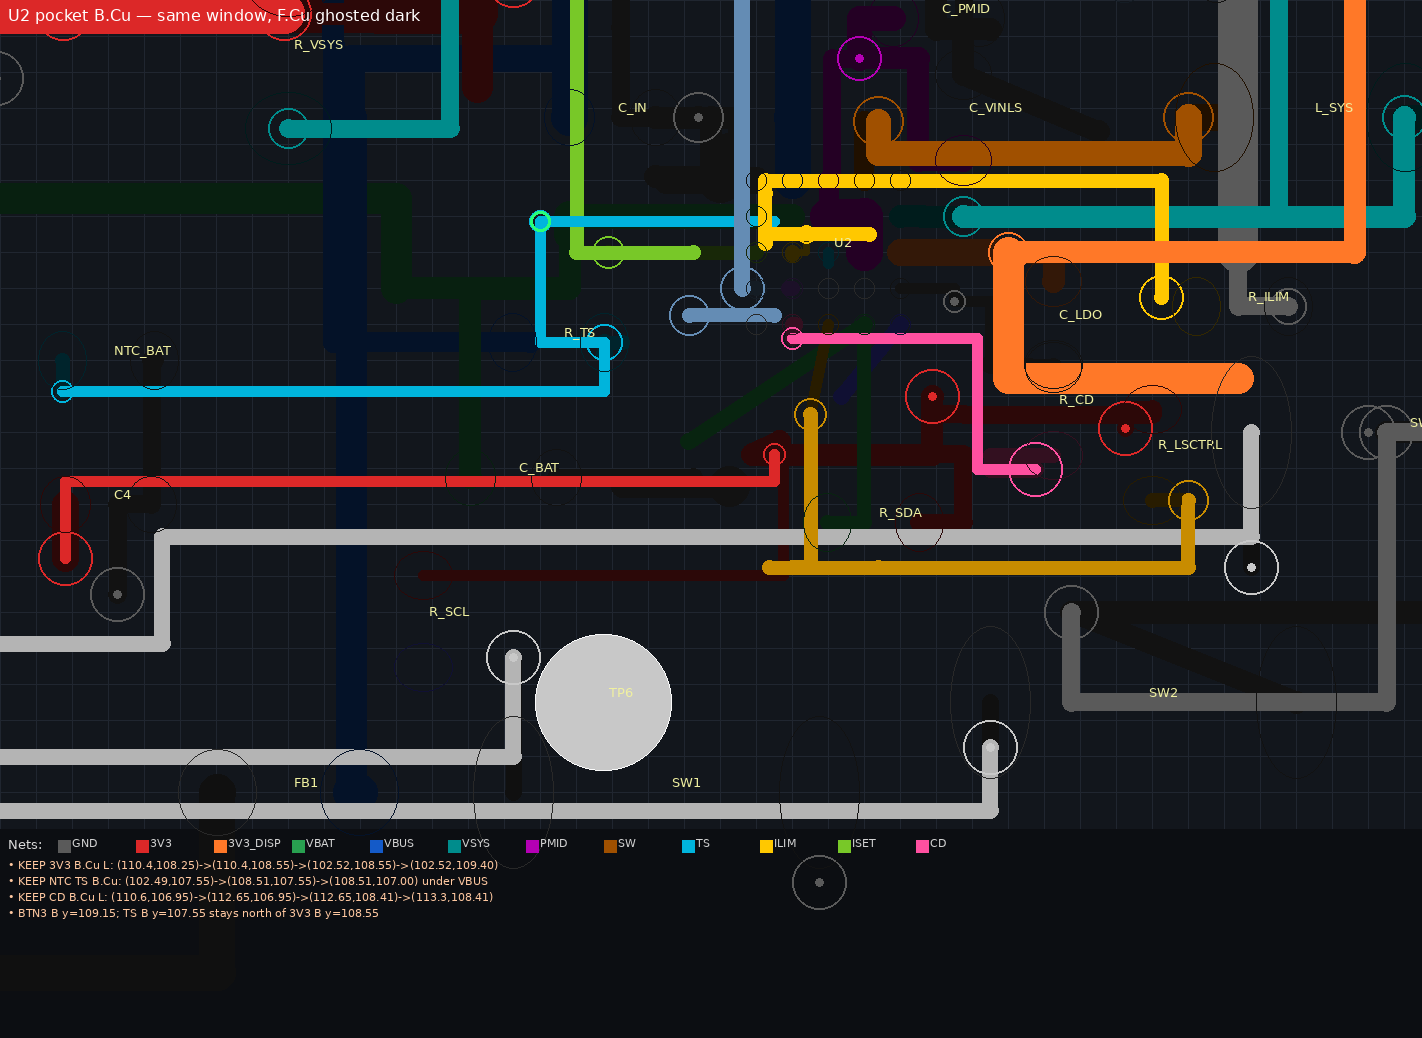
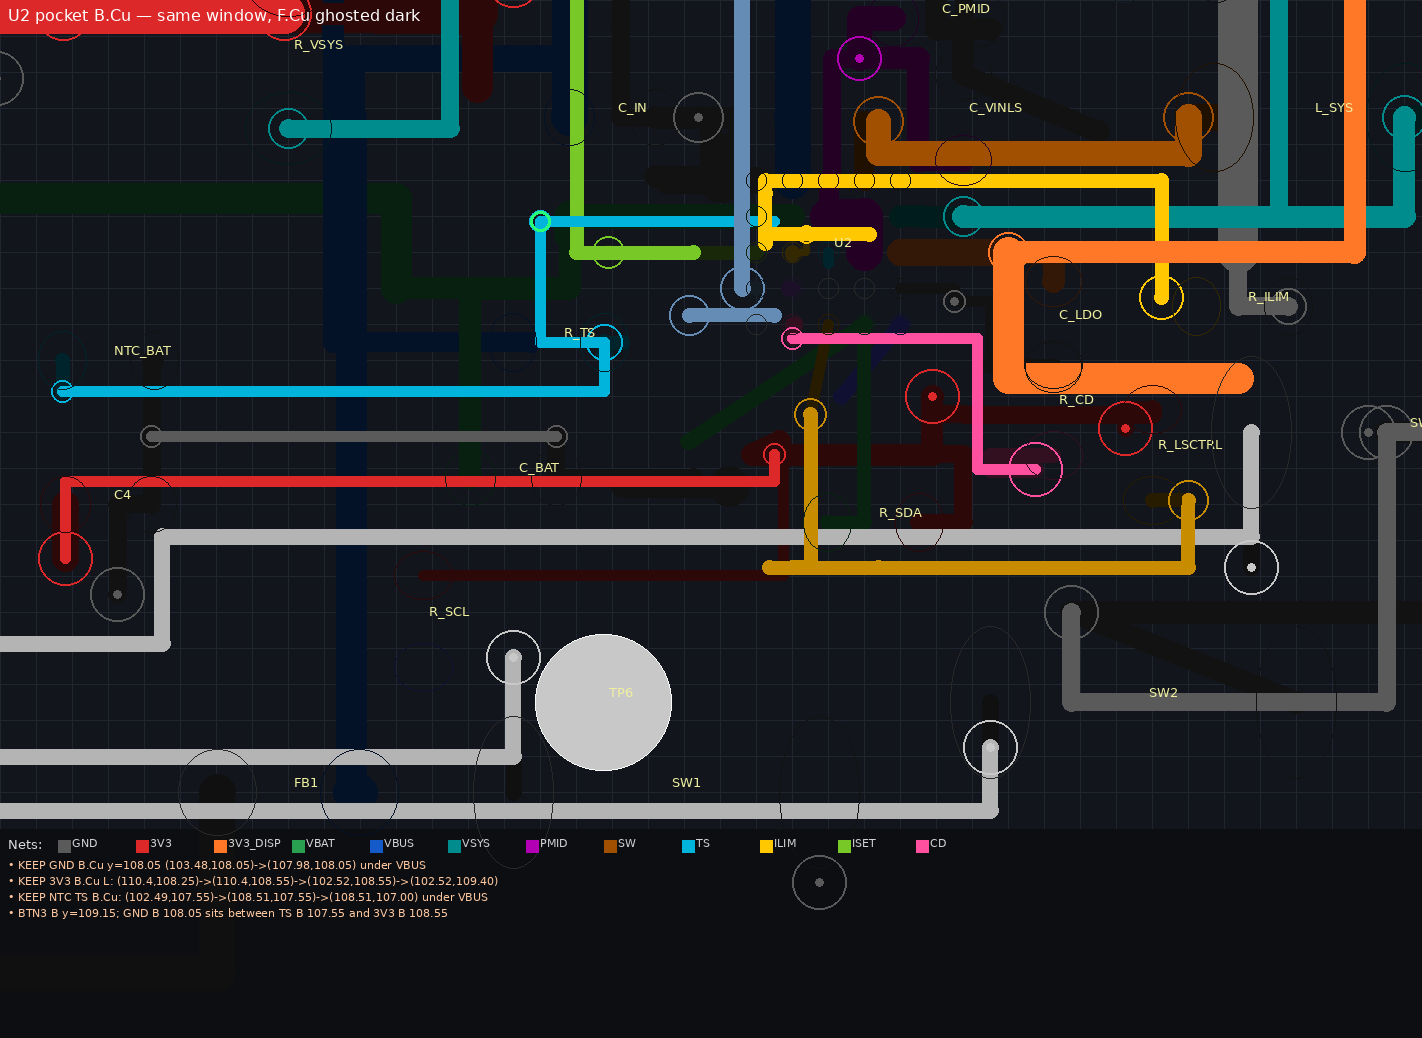
Join C_BAT GND to the C4 column under VBUS.
Stitch C_BAT pad2 to the west GND column with 0.25 vias at (103.48, 108.05) and (107.98, 108.05) plus B.Cu at y=108.05 between the TS and 3V3 back-side rails. Unconnected 9→8, shorting stays 0. Explorer now finalizes after the last tool round so Sol KEEP text is not dropped.

Changed region(s): [[0.0309, 0.8324, 0.3404, 0.894], [0.0928, 0.4008, 0.4023, 0.4316]]

diff --git a/kicad/tools/_sol_repo_explore.py b/kicad/tools/_sol_repo_explore.py
@@ -22,7 +22,7 @@ ROOT = Path(__file__).resolve().parents[2]
 BOARD_REL = "kicad/e-ink-watch.kicad_pcb"
 REPORT = ROOT / "kicad/reports/PASS_AG_SOL_EXPLORE.md"
 TRACE = Path("/tmp/sol_explore_trace.jsonl")
-MAX_ROUNDS = 16
+MAX_ROUNDS = 18
 MAX_IMAGE_BYTES = 1_500_000
 MAX_IMAGES_TOTAL = 8
 READ_LINE_LIMIT = 220
@@ -624,9 +624,32 @@ def main() -> None:
                 messages.append(
                     {
                         "role": "user",
-                        "content": "No more tool rounds. Write the three variants and the combined KEEP now from what you already opened.",
+                        "content": (
+                            "No more tool rounds. Write the three variants and "
+                            "the combined KEEP now from what you already opened. "
+                            "If none is KEEP, say so in Russian."
+                        ),
                     }
                 )
+                print("FINALIZE after last tool round", flush=True)
+                body = chat(key, messages)
+                usage = body.get("usage")
+                choice = body["choices"][0]
+                message = choice["message"]
+                finish = choice.get("finish_reason")
+                print("finish", finish, "model", body.get("model"), "usage", usage, flush=True)
+                explorer.trace.append(
+                    {
+                        "round": "finalize",
+                        "finish": finish,
+                        "content_len": len(message.get("content") or ""),
+                        "tool_calls": [
+                            tool_name(call) for call in (message.get("tool_calls") or [])
+                        ],
+                    }
+                )
+                final_text = message.get("content") or "(max rounds, empty finalize)"
+                break
             continue
         final_text = message.get("content") or ""
         if round_index == 1 and not final_text.strip():

diff --git a/kicad/tools/_u2_pocket_render.py b/kicad/tools/_u2_pocket_render.py
@@ -41,6 +41,7 @@ LATENTS = [
     "KEEP: R_SCL (106.5,110.1,90); GND D5 via (112.4,106.55)+F L to R_CD (112.8,107.24)",
     "KEEP: 3V3 west via (110.4,108.25) 0.25 + B L y=108.55 onto (102.52,109.40)",
     "KEEP: NTC_BAT (103.0,107.2,0) on C4 column; C_BAT (107.5,108.5,0) off R_SCL courtyard",
+    "KEEP: GND C_BAT west vias (103.48,108.05)+(107.98,108.05) + B y=108.05 under VBUS",
 ]
 
 
@@ -250,6 +251,7 @@ def render_layer(text, layer, title, callouts):
         ((110.20, 108.05, 110.60, 108.45), "3V3 west KEEP"),
         ((102.40, 106.90, 103.70, 107.75), "NTC west KEEP"),
         ((106.55, 108.00, 108.45, 109.00), "C_BAT north KEEP"),
+        ((103.30, 107.90, 108.15, 108.20), "GND C_BAT west KEEP"),
     ]
     if layer == "F.Cu":
         for (bx0, by0, bx1, by1), _label in boxes:
@@ -286,7 +288,7 @@ def main():
     fcu = render_layer(
         text,
         "F.Cu",
-        "U2 pocket F.Cu — after C_BAT north spread (shorting=0, unc=9)",
+        "U2 pocket F.Cu — after C_BAT GND west stitch (shorting=0, unc=8)",
         LATENTS,
     )
     bcu = render_layer(
@@ -294,10 +296,10 @@ def main():
         "B.Cu",
         "U2 pocket B.Cu — same window, F.Cu ghosted dark",
         [
+            "KEEP GND B.Cu y=108.05 (103.48,108.05)->(107.98,108.05) under VBUS",
             "KEEP 3V3 B.Cu L: (110.4,108.25)->(110.4,108.55)->(102.52,108.55)->(102.52,109.40)",
             "KEEP NTC TS B.Cu: (102.49,107.55)->(108.51,107.55)->(108.51,107.00) under VBUS",
-            "KEEP CD B.Cu L: (110.6,106.95)->(112.65,106.95)->(112.65,108.41)->(113.3,108.41)",
-            "BTN3 B y=109.15; TS B y=107.55 stays north of 3V3 B y=108.55",
+            "BTN3 B y=109.15; GND B 108.05 sits between TS B 107.55 and 3V3 B 108.55",
         ],
     )
     fcu_path = OUT / "u2_pocket_fcu_annotated.png"

diff --git a/kicad/tools/_pass_ag_try.py b/kicad/tools/_pass_ag_try.py
@@ -485,6 +485,20 @@ elif edit_name == "sol_cbat_north":
     if n_vbat != 1 or n_gnd_h != 1 or n_gnd_v != 1:
         raise SystemExit("sol_cbat_north failed to match VBAT/GND copper")
 
+elif edit_name == "sol_gnd_cbat_west":
+    # Join C_BAT west GND to the C4/NTC column without crossing VBUS on F.
+    # R_SDA off SW2 is still boxed by 3V3 x=110.5 and SDA x=111.4 (STEP8).
+    # KEEP: via 0.25 on existing C4 GND vertical (103.48,108.05) + via on
+    # C_BAT.2 column (107.98,108.05) + B.Cu y=108.05 under VBUS between
+    # TS B y=107.55 and 3V3 B y=108.55. F stub C_BAT.2 down to the east via.
+    # Not VIP. Probe overlap=0 (TS B +0.315, 3V3 B +0.315, BTN3 +0.892,
+    # C_BAT.1 VBAT +0.569). y=107.90 is only +0.165 vs TS B.
+    text = add_via(text, 103.48, 108.05, 0.25, 0.15, ground_net)
+    text = add_via(text, 107.98, 108.05, 0.25, 0.15, ground_net)
+    text = add_segment(text, 103.48, 108.05, 107.98, 108.05, 0.12, "B.Cu", ground_net)
+    text = add_segment(text, 107.98, 108.5, 107.98, 108.05, 0.2, "F.Cu", ground_net)
+    print("sol_gnd_cbat_west vias (103.48,108.05)+(107.98,108.05) 0.25 + B y=108.05")
+
 else:
     raise SystemExit(f"unknown edit {edit_name}")
 

diff --git a/kicad/tools/_pass_ag_apply_keeps.py b/kicad/tools/_pass_ag_apply_keeps.py
@@ -191,6 +191,16 @@ if has_ntc_west and not has_cbat_north:
     applied.append("sol_cbat_north")
     has_cbat_north = True
 
+has_gnd_cbat_west = "(at 103.48 108.05)" in text
+if has_cbat_north and not has_gnd_cbat_west:
+    ground_net = netnum(text, "GND")
+    text = add_via(text, 103.48, 108.05, 0.25, 0.15, ground_net)
+    text = add_via(text, 107.98, 108.05, 0.25, 0.15, ground_net)
+    text = add_segment(text, 103.48, 108.05, 107.98, 108.05, 0.12, "B.Cu", ground_net)
+    text = add_segment(text, 107.98, 108.5, 107.98, 108.05, 0.2, "F.Cu", ground_net)
+    applied.append("sol_gnd_cbat_west")
+    has_gnd_cbat_west = True
+
 if not applied:
     if "(at 110.75 105.8)" in text and (
         "(at 108.8 109.8 90)" in text or has_rscl_west
@@ -216,6 +226,8 @@ if not applied:
             extra += ", sol_ntc_west"
         if has_cbat_north:
             extra += ", sol_cbat_north"
+        if has_gnd_cbat_west:
+            extra += ", sol_gnd_cbat_west"
         print(
             "Pass-AG keeps already present: "
             f"iset_via_west, ts_via_corner, sol_combo_west{extra}"

diff --git a/kicad/reports/PASS_AG.md b/kicad/reports/PASS_AG.md
@@ -2,12 +2,12 @@
 
 **Board:** `e-ink-watch.kicad_pcb`  
 **From:** Pass-AF (`shorting=0`, `unc=10`)  
-**To:** Pass-AG (`shorting=0`, `unc=9` after `sol_cbat_north`)  
+**To:** Pass-AG (`shorting=0`, `unc=8` after `sol_gnd_cbat_west`)  
 **Tool:** `kicad-cli 9.0.9 pcb drc` + in-place sexpr edits
 
 ## Verdict
 
-**Partial.** Hard gates held. Combined Sol vision KEEP cleared the four U2 latents. Sol then browsed the repo: `sol_rscl_3v3` then `sol_3v3_lsctrl_tie` reconnected the west `R_SCL` pad2 and the leftover `R_LSCTRL` 3V3 stub. Independent CD F→B KEEP (`sol_cd_e2_via`) and ILIM C2 dogbone (`sol_ilim_c2_dogbone`) closed E2 and C2 (`unc` 16→12). South 0402 heap spread with `sol_rscl_west` (`R_SCL` to `(106.5, 110.1, 90)`). Independent `sol_gnd_d5_via` + F.Cu tie `sol_gnd_d5_tie` joined D5 onto east `R_CD` GND (`unc` 12→10). Independent `sol_3v3_west_via` joined east 3V3 to west via `(102.52, 109.40)` on B.Cu north of BTN3 (`unc` 10→9). Independent `sol_ntc_west` moved `NTC_BAT` onto the `C4` column west of VBUS (courtyard vs `C_BAT` `−0.290` → `+2.721`; `unc` stayed 9). Independent `sol_cbat_north` slid `C_BAT` to `(107.5, 108.5, 0)` (courtyard vs `R_SCL` `−0.100` → `+0.200`; `unc` stayed 9). C3 TS and E5 SCL still islands. Not production-ready.
+**Partial.** Hard gates held. Combined Sol vision KEEP cleared the four U2 latents. Sol then browsed the repo: `sol_rscl_3v3` then `sol_3v3_lsctrl_tie` reconnected the west `R_SCL` pad2 and the leftover `R_LSCTRL` 3V3 stub. Independent CD F→B KEEP (`sol_cd_e2_via`) and ILIM C2 dogbone (`sol_ilim_c2_dogbone`) closed E2 and C2 (`unc` 16→12). South 0402 heap spread with `sol_rscl_west` (`R_SCL` to `(106.5, 110.1, 90)`). Independent `sol_gnd_d5_via` + F.Cu tie `sol_gnd_d5_tie` joined D5 onto east `R_CD` GND (`unc` 12→10). Independent `sol_3v3_west_via` joined east 3V3 to west via `(102.52, 109.40)` on B.Cu north of BTN3 (`unc` 10→9). Independent `sol_ntc_west` moved `NTC_BAT` onto the `C4` column west of VBUS (courtyard vs `C_BAT` `−0.290` → `+2.721`; `unc` stayed 9). Independent `sol_cbat_north` slid `C_BAT` to `(107.5, 108.5, 0)` (courtyard vs `R_SCL` `−0.100` → `+0.200`; `unc` stayed 9). Independent `sol_gnd_cbat_west` joined `C_BAT` GND to the `C4` column under VBUS (`unc` 9→8). C3 TS and E5 SCL still islands. Not production-ready.
 
 ## KEEP (DRC-gated)
 
@@ -26,6 +26,7 @@
 | `sol_3v3_west_via` add B/via | Via on existing 3V3 F rail `(110.4, 108.25)` `0.25/0.15` + B.Cu L `(110.4,108.25)→(110.4,108.55)→(102.52,108.55)→(102.52,109.40)` onto west 3V3 via. Sol's F.Cu `(102.52,109.40)–(106.5,109.40)` hits VBUS. Via `(107.0,109.59)` cannot B-drop across BTN3 `y=109.15`. `(110.8,108.25)` overlap LSCTRL B. Probe overlap=0 (LSCTRL B `+0.200`, BTN3 `+0.450`). `shorting=0`, `unc=10→9`. |
 | `sol_ntc_west` move + F/B | Spread NTC/C_BAT pile: `NTC_BAT (108.2, 108.15, 0)` → `(103.0, 107.2, 0)` north of `C4`. TS via `0.25@(102.49, 107.55)` + B.Cu `y=107.55` under VBUS onto TS via `(108.51, 107.00)`; GND F onto `C4.2`. Sol STEP7 refused east/south NTC and north `R_SDA`. Probe overlap=0 (3V3 B `+0.880`, BTN3 `+1.450`, C4.1 3V3 `+0.550`). `shorting=0`, `unc=9`. |
 | `sol_cbat_north` move + F | Spread C_BAT off R_SCL: `C_BAT (107.5, 108.8, 0)` → `(107.5, 108.5, 0)`. VBAT vertical and GND L retargeted in-place. `R_SDA` north/west overlap 3V3 `x=110.5` / SDA `x=111.4`. Probe overlap=0 (R_SCL.2 `+0.486`, 3V3 L `+0.720`, SDA diagonal `+0.210`). Courtyard vs `R_SCL` `−0.100` → `+0.200`. `shorting=0`, `unc=9`. |
+| `sol_gnd_cbat_west` add F/B | Join `C_BAT` west GND to `C4`/`NTC` without F.Cu across VBUS: via `0.25@(103.48, 108.05)` on the C4 GND vertical + via `0.25@(107.98, 108.05)` + B.Cu `y=108.05` under VBUS between TS B `y=107.55` and 3V3 B `y=108.55`. F stub from `C_BAT.2`. Probe overlap=0 (TS B `+0.315`, 3V3 B `+0.315`). `shorting=0`, `unc=9→8`. |
 
 Replay: `python3 tools/_pass_ag_apply_keeps.py` on the Pass-AF board.
 
@@ -45,13 +46,13 @@ In-place `(at …)` / endpoint edits keep KiCad item order. That avoided the Pas
 
 The four U2 latents from Pass-AG are **geometrically cleared** by `sol_combo_west` (DRC `shorting=0` after the same save). Remaining work is reconnect, not overlap.
 
-## Remaining unc=9
+## Remaining unc=8
 
-GND A5 vs D5, D5/`R_CD` east GND vs `C_BAT` west-of-U2 GND, west 3V3_DISP, SDA to U1, SCL E5 vs `R_SCL` pad1 `(106.5, 110.61)`, SCL to U1, PMIC_INT, TS C3 vs TS B via `(107.8, 105.65)`. Pocket CD (E2), ILIM (C2), D5→east GND, east 3V3→west via, and NTC TS/GND (now on the `C4` column) are closed. `C_BAT` is at `(107.5, 108.5)` (courtyard vs `R_SCL` `+0.200`). `R_SDA` still sits in the F street at `(111.50, 109.00)` (courtyard vs `SW2` `−0.120`).
+GND A5 vs D5 (D5 via does not stitch In1), west 3V3_DISP ×2, SDA to U1, SCL E5 vs `R_SCL` pad1 `(106.5, 110.61)`, SCL to U1, PMIC_INT, TS C3 vs TS B via `(107.8, 105.65)`. Pocket CD (E2), ILIM (C2), D5→east `R_CD`, east 3V3→west via, NTC TS/GND, and `C_BAT` west GND→`C4` column are closed. `C_BAT` is at `(107.5, 108.5)` (courtyard vs `R_SCL` `+0.200`). `R_SDA` still sits in the F street at `(111.50, 109.00)` (courtyard vs `SW2` `−0.120`).
 
 ## Next
 
-Spread `R_SDA` off `SW2` without parking on SW1/SW2 (`R_SDA` north/west is boxed by 3V3 `x=110.5` and SDA `x=111.4`). Orthogonal F/B reconnect of TS C3 and SCL E5→`R_SCL` pad1 `(106.5, 110.61)`. New CD B.Cu at `y=106.95` `x=110.60–112.65` — through vias there short CD. New GND via does not stitch In1 until refill — use F.Cu ties to existing GND copper. No In1/In2 signal hauls. No new overlap. East 0402 column stays (`R_CD`/`C_LDO` x=113.5, `R_LSCTRL` x=114.6, `R_ILIM` x=115.6).
+Spread `R_SDA` off `SW2` without parking on SW1/SW2 (`R_SDA` north/west is boxed by 3V3 `x=110.5` and SDA `x=111.4`; 3V3 retract to `x=110.00` hits GND blob `w=0.45@(109.90, 108.60)`). Orthogonal F/B reconnect of TS C3 and SCL E5→`R_SCL` pad1 `(106.5, 110.61)`. A5 GND still overlaps PMID/ILIM B to the east. New GND via does not stitch In1 until refill — D5 stays an island vs A5. No In1/In2 signal hauls. No new overlap. East 0402 column stays (`R_CD`/`C_LDO` x=113.5, `R_LSCTRL` x=114.6, `R_ILIM` x=115.6).
 
 gpt-6-sol now browses with `tools/_sol_repo_explore.py`. NC pads must show in `inspect_pcb_window` / `probe_clearance` or it will haul CD onto E1.
 
@@ -60,5 +61,5 @@ gpt-6-sol now browses with `tools/_sol_repo_explore.py`. NC pads must show in `i
 - `tools/_pass_ag_sexpr_lib.py`, `_pass_ag_gate.py`, `_pass_ag_try.py`, `_pass_ag_apply_keeps.py`, `_pass_ag_run.sh`
 - `tools/_u2_pocket_render.py`, `_sol_vision_ask.py`, `_sol_repo_explore.py`, `_sol_board_query.py`
 - `reports/sol_views/`
-- `reports/PASS_AG_SOL.md`, `reports/PASS_AG_SOL_VISION.md`, `reports/PASS_AG_SOL_EXPLORE.md`, `reports/PASS_AG_SOL_EXPLORE_FOLLOWUP.md`, `reports/PASS_AG_SOL_STEP.md`, `reports/PASS_AG_SOL_STEP2.md`, `reports/PASS_AG_SOL_STEP3.md`, `reports/PASS_AG_SOL_STEP4.md`, `reports/PASS_AG_SOL_STEP5.md`, `reports/PASS_AG_SOL_STEP6.md`, `reports/PASS_AG_SOL_STEP7.md`, `reports/PASS_AG_SOL_STEP8.md`
+- `reports/PASS_AG_SOL.md`, `reports/PASS_AG_SOL_VISION.md`, `reports/PASS_AG_SOL_EXPLORE.md`, `reports/PASS_AG_SOL_EXPLORE_FOLLOWUP.md`, `reports/PASS_AG_SOL_STEP.md`, `reports/PASS_AG_SOL_STEP2.md`, `reports/PASS_AG_SOL_STEP3.md`, `reports/PASS_AG_SOL_STEP4.md`, `reports/PASS_AG_SOL_STEP5.md`, `reports/PASS_AG_SOL_STEP6.md`, `reports/PASS_AG_SOL_STEP7.md`, `reports/PASS_AG_SOL_STEP8.md`, `reports/PASS_AG_SOL_STEP9.md`
 - `LIVE_LOG.txt`

diff --git a/cursor.md b/cursor.md
@@ -40,6 +40,7 @@ Do not skip these on the next PCB pass.
 - Independent F.Cu-clear 3V3 stitch via `(107.0, 109.59)` `0.25` sits inside In2 r=12 (BTN3 B `+0.225`, `C_BAT` `+0.355`) but will not close west 3V3 vs via `(102.52, 109.40)` without an F.Cu tie or a zone refill. Do not apply expecting an unc drop. KEEP `sol_3v3_west_via`: via on existing 3V3 F rail `(110.4, 108.25)` `0.25` (north of BTN3) + B.Cu L `y=108.55` onto west via. Sol's F.Cu `(102.52,109.40)–(106.5,109.40)` hits VBUS. `(110.8,108.25)` overlap LSCTRL B. `(111.2,108.25)` RISK `+0.000` vs SDA `x=111.4`. DRC `shorting=0`, unc 10→9.
 - Spreading NTC vs C_BAT courtyard `−0.290`: east of C_BAT (rot0 at `y=108.80` or rot90 in the C_BAT/`R_SDA` band) hits the SDA diagonal `(109.44, 108.10)` and/or C_BAT GND `y=108.8`. `R_SDA` rot90 on `x=111.4` puts pad2 `3V3` on the SDA vertical. C_BAT south hits the 3V3 L `y=109.59`. KEEP `sol_ntc_west`: `NTC_BAT (103.0, 107.2, 0)` north of `C4`, west of VBUS `x=105.7`. TS via `0.25@(102.49, 107.55)` + B.Cu `y=107.55` under VBUS onto existing TS via `(108.51, 107.00)`. GND F onto `C4.2`. Courtyard NTC vs C_BAT `−0.290` → `+2.721`. DRC `shorting=0` unc=9. Sol STEP7 correctly refused the east/south NTC and north `R_SDA` probes.
 - Spreading C_BAT vs R_SCL courtyard `−0.100`: C_BAT south hits 3V3 L `y=109.59`; west is VBUS; east is the SDA diagonal. `R_SDA` north `y=108.85` OVERLAP 3V3 vertical `x=110.5` (`−0.160`); `R_SDA` west `x=111.17` OVERLAP that same 3V3 vertical (`−0.380`) and SDA `x=111.4`. `R_SCL` west is VBUS-tight vs SW1 courtyard `−0.170`. KEEP `sol_cbat_north`: `C_BAT (107.5, 108.8, 0)` → `(107.5, 108.5, 0)`, retarget VBAT vertical and GND L in-place. Courtyard vs `R_SCL` `−0.100` → `+0.200`. DRC `shorting=0` unc=9. Do not re-probe the existing VBAT vertical through VBUS `y=107` — that copper is unchanged. Sol STEP8 hit `MAX_ROUNDS` still calling tools, so the report had no Sol KEEP text; independently re-probe every R_SDA variant it did emit (rot90 east/west, rot0 north, rot180) — all OVERLAP.
+- `R_SDA` vs `SW2` courtyard `−0.120` is boxed by 3V3 vertical `x=110.5` and SDA vertical `x=111.4`; 3V3 retract to `x=110.00` OVERLAP GND blob `(109.90, 108.60)` `w=0.45`. LSCTRL B `x=110.80` blocks an SDA B hop from pad1. KEEP `sol_gnd_cbat_west`: via `0.25@(103.48, 108.05)` on the C4 GND vertical + via `0.25@(107.98, 108.05)` on `C_BAT.2` + B.Cu `y=108.05` under VBUS between TS B `y=107.55` and 3V3 B `y=108.55`. Not VIP. Probe overlap=0 (TS B `+0.315`, 3V3 B `+0.315`). DRC `shorting=0` unc 9→8. `y=107.90` is only `+0.165` vs TS B. Explorer must finalize after the last tool round or Sol's KEEP text is dropped.
 
 ## Hard gates (do not relax)
 
